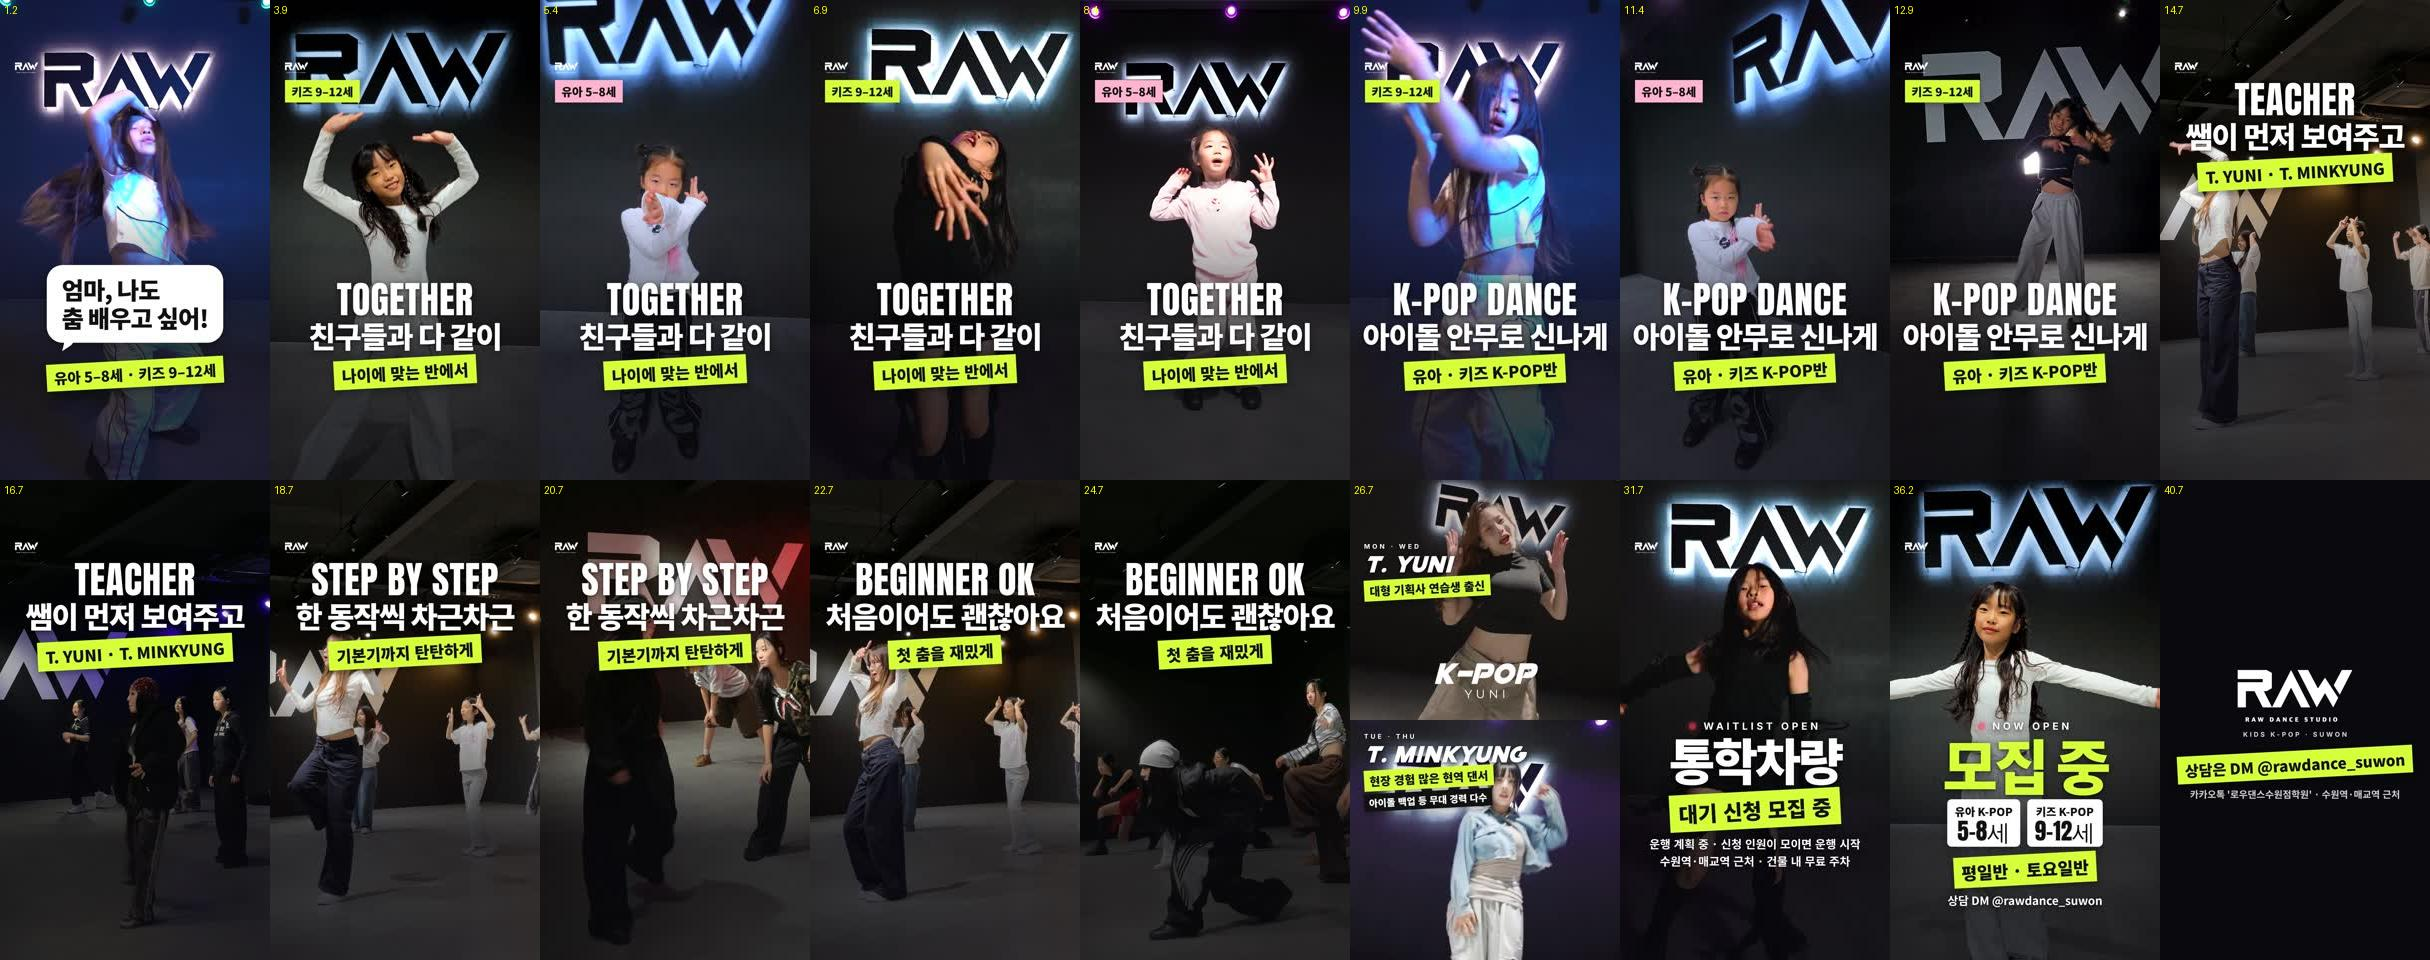
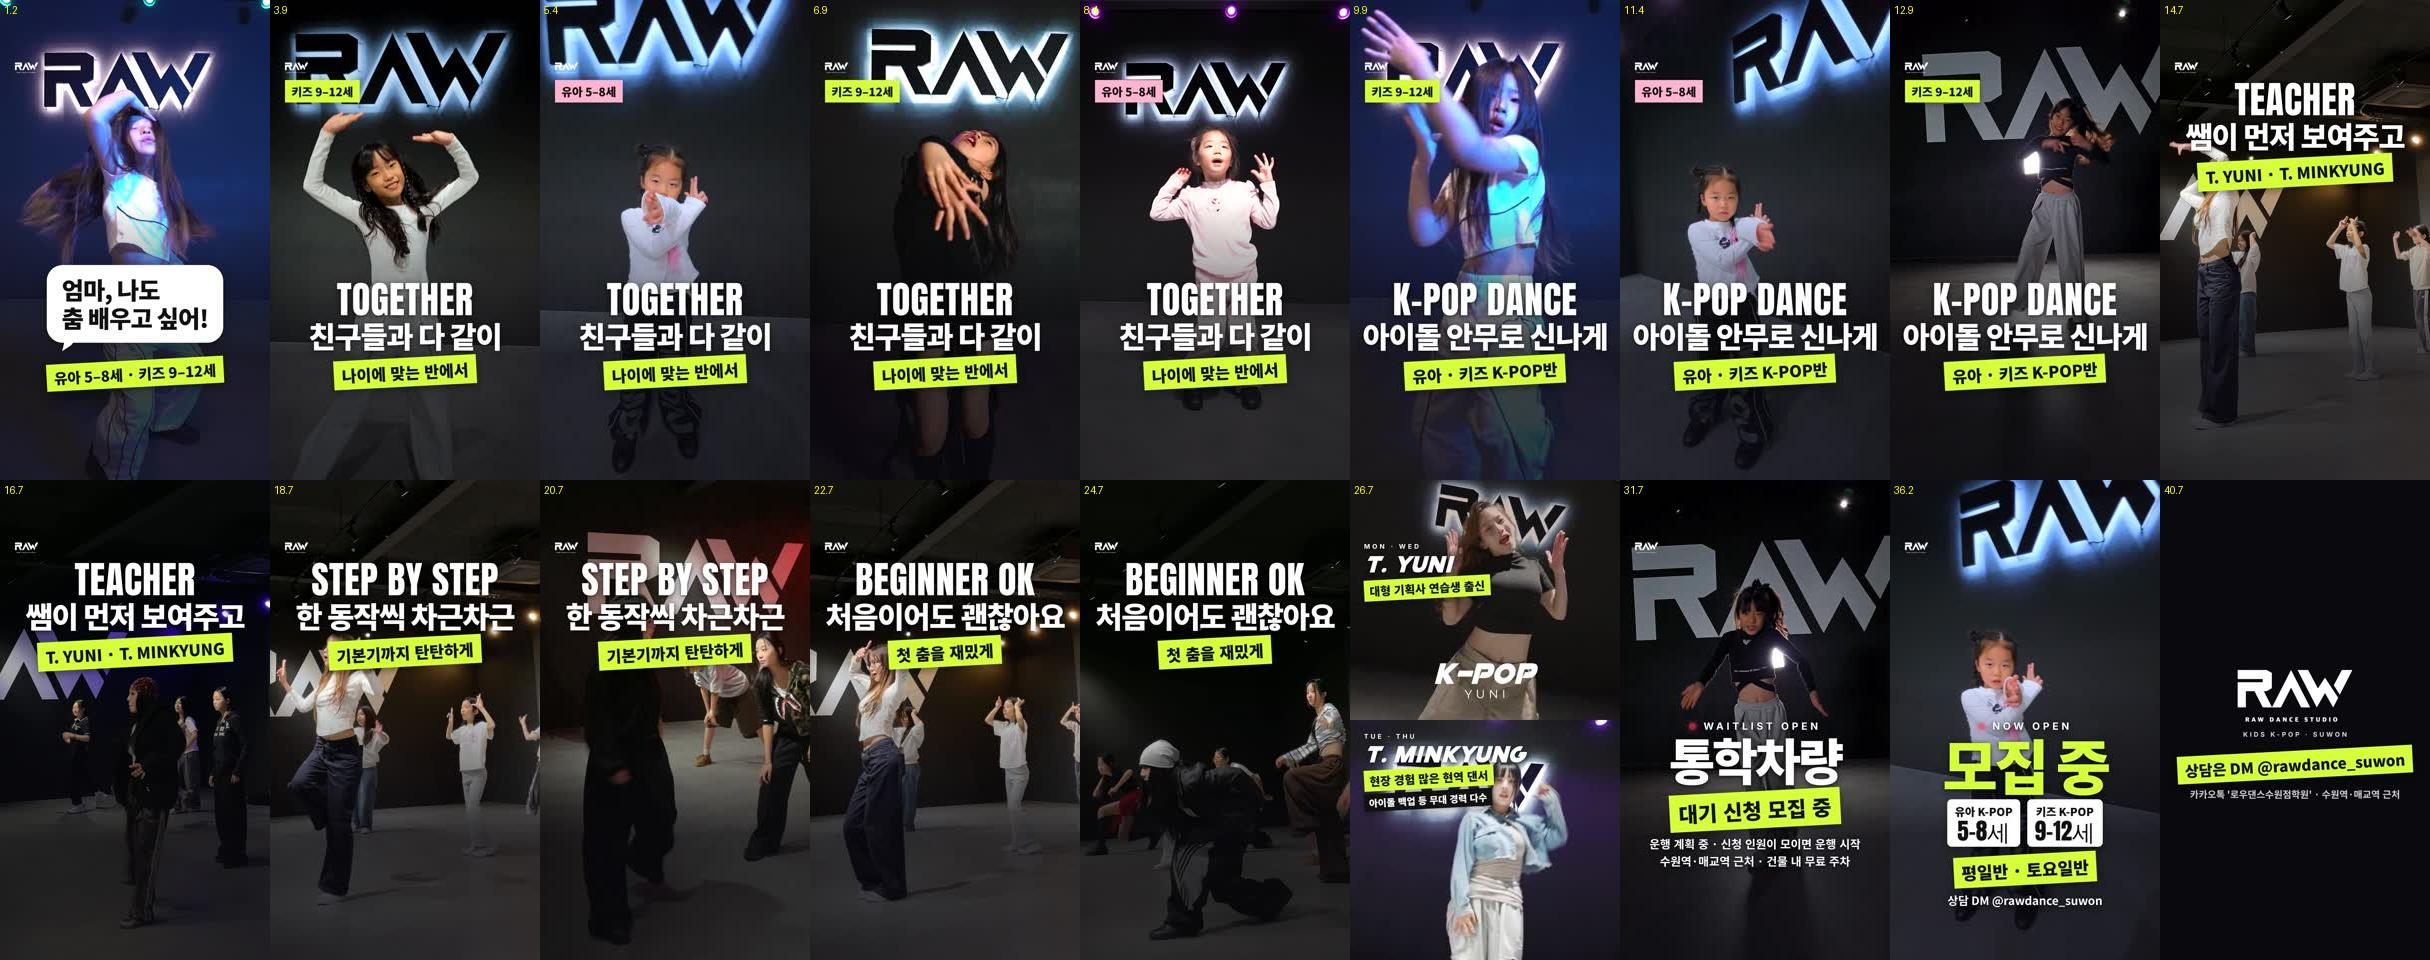
K-POP 광고 B2: 35초 배경 영상 끝 로고·검은 화면 튀는 것 고침, 어두운 구간 안 고르게
Claude-Session: https://claude.ai/code/session_01CMPXWNa21Fqq6srPZpa27D

Changed region(s): [[0.6481, 0.5, 0.8951, 0.9375], [0.8025, 0.875, 0.8642, 0.9688]]

diff --git a/content/2026-11-20_kpop-kids-reels3/make_reels.py b/content/2026-11-20_kpop-kids-reels3/make_reels.py
@@ -26,9 +26,15 @@ def motion(f, a, b):
     x = np.frombuffer(r.stdout, np.uint8); n = len(x) // 4096; x = x[:n * 4096].reshape(n, 64, 64).astype(np.float32)
     return np.r_[0, np.abs(np.diff(x, axis=0)).mean((1, 2))]
 
+def luma(f, a, b):
+    r = subprocess.run(["ffmpeg", "-nostdin", "-v", "error", "-ss", f"{a:.2f}", "-t", f"{b - a:.2f}", "-i", f, "-vf", "fps=5,scale=32:32,format=gray", "-f", "rawvideo", "-"], capture_output=True)
+    x = np.frombuffer(r.stdout, np.uint8); n = len(x) // 1024; return x[:n * 1024].reshape(n, 1024).mean(1)
+
 def picks(f, a, b, seg, k, gap=2.0):
-    """a~b초 안에서 움직임이 큰 seg초 구간 k개 (서로 gap초 이상 떨어지게), 시간 순"""
+    """a~b초 안에서 움직임이 큰 seg초 구간 k개 (서로 gap초 이상 떨어지게), 시간 순. 어두운 장면(검은 전환·로고)이 낀 구간은 뺌"""
     m = motion(f, a, b); w = max(1, int(seg * 5)); sc = np.convolve(m, np.ones(w) / w, "valid"); out = []
+    L = luma(f, a, b); dark = np.convolve((L < 18).astype(float), np.ones(w), "valid") if len(L) >= w else np.zeros(len(sc))
+    sc = np.where(dark[:len(sc)] > 0, -1, sc) if len(dark) >= len(sc) else sc
     for i in np.argsort(sc)[::-1]:
         t = a + i / 5
         if t + seg > b: continue
@@ -165,8 +171,9 @@ elif WHICH == "B2":
             (4, ("fill", CLS, 5.5, ZN6), T2), (4, ("fill", "m1076.mov", 0.2, (0.42, 0.66, 0.68)), T2),
             (4, ("fill", CLS, 10.0, ZN6), T3), (4, ("fill", "m0415.mov", 8.5, (0.38, 0.66, 0.62)), T3),
             (10, ("split", (YT, ys[0]), (MT, ms[0])), {"kind": "pair"}),
-            (9, ("fill", "1119_kids_insta.mp4", pk("1119_kids_insta.mp4", 2)[1]), {"kind": "info", "i": 4}),   # 통학차량 대기 신청 모집 중
-            (9, ("fill", "1021_kids.mp4", pk("1021_kids.mp4", 2)[1]), {"kind": "info", "i": 3}),              # 유아·키즈반 모집 중
+            # 원장님 2026-11-20 "35초쯤 로고가 갑자기 뜬다" → 배경 영상이 원본 끝(박힌 RAW 로고·검은 화면)까지 넘어가서, 4.5초 통째로 안전한 구간으로 고름
+            (9, ("fill", "1104_kpop.mp4", pk("1104_kpop.mp4", 1, 4.8)[0]), {"kind": "info", "i": 4}),   # 통학차량 대기 신청 모집 중
+            (9, ("fill", "1118_yua.mp4", pk("1118_yua.mp4", 1, 4.8)[0]), {"kind": "info", "i": 3}),      # 유아·키즈반 모집 중
             (6, ("fill", "clip3.mp4", 0), LOGO)]
 else:
     song, bpm, first = "madness.wav", 130.0, 0.435
